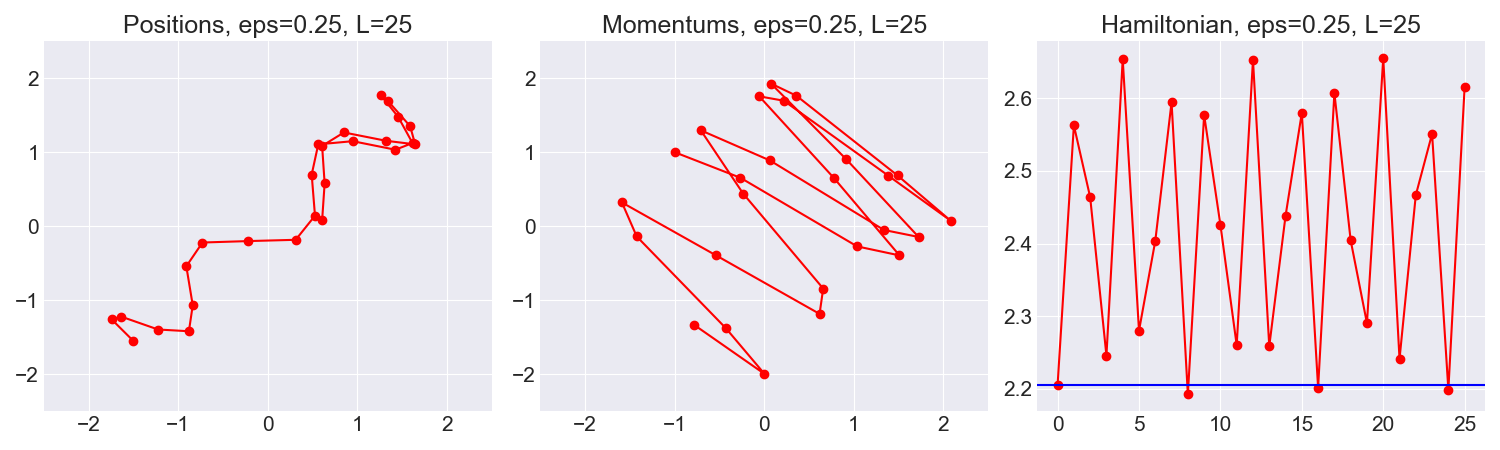
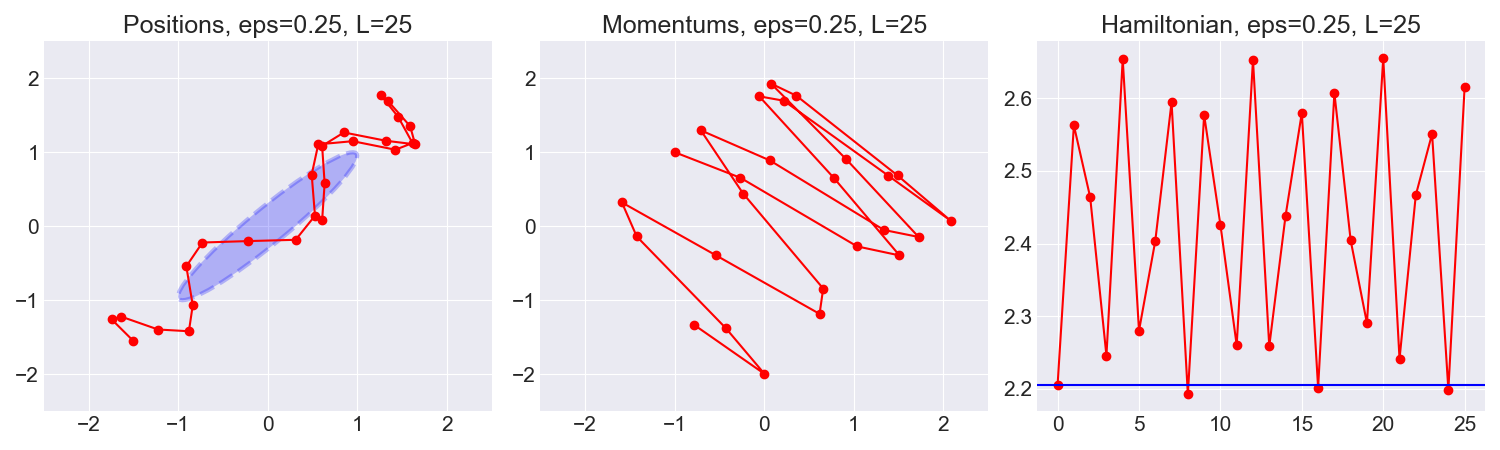
improved figures with ellipses

Changed region(s): [[0.1227, 0.3422, 0.2453, 0.6844]]

diff --git a/hmc/bivariate_gaussian_one_leapfrog.py b/hmc/bivariate_gaussian_one_leapfrog.py
@@ -12,6 +12,7 @@ import sys
 
 # Matplotlib
 import matplotlib.pyplot as plt
+from matplotlib.patches import Ellipse
 plt.style.use('seaborn-darkgrid')
 FIG_DIR = "draft_figures/"
 title_size = 18
@@ -88,11 +89,57 @@ def do_one_sample(cfg):
     return proc(positions), proc(momentums), proc(hamiltonians)
 
 
+def plot_cov_ellipse(cov, pos, nstd=1, ax=None, **kwargs):
+    """
+    Plots an `nstd` sigma error ellipse based on the specified covariance matrix
+    (`cov`). Additional keyword arguments are passed on to the ellipse patch
+    artist.
+
+    Parameters
+    ----------
+        cov : The 2x2 covariance matrix to base the ellipse on
+        pos : The location of the center of the ellipse.  Expects a 2-element
+                sequence of [x0, y0].
+        nstd : The radius of the ellipse in numbers of standard deviations.
+                Defaults to 2 standard deviations.
+        ax : The axis that the ellipse will be plotted on.  Defaults to the
+                current axis.
+        Additional keyword arguments are pass on to the ellipse patch.
+
+    Returns
+    -------
+    A matplotlib ellipse artist
+    """
+    def eigsorted(cov):
+        vals, vecs = np.linalg.eigh(cov)
+        order = vals.argsort()[::-1]
+        return vals[order], vecs[:,order]
+
+    if ax is None:
+        ax = plt.gca()
+
+    vals, vecs = eigsorted(cov)
+    theta = np.degrees(np.arctan2(*vecs[:,0][::-1]))
+
+    # Width and height are "full" widths, not radius
+    width, height = 2 * nstd * np.sqrt(vals)
+    ellip = Ellipse(xy=pos, width=width, height=height, angle=theta, **kwargs)
+    ax.add_artist(ellip) 
+    return ellip
+
+
 def plot(positions, momentums, hamiltonians, cfg):
     """  Creates plots to match Neal's figure. """
     L = cfg['L']
     eps = cfg['eps']
     fig, axarr = plt.subplots(1,3, figsize=(15,4.5))
+
+    # Plot an ellipse of one standard deviation..
+    cov = np.array([[cfg['stdev'], cfg['covariance']],
+                    [cfg['covariance'], cfg['stdev']]]
+    )
+    plot_cov_ellipse(cov=cov, pos=[0,0], nstd=1, ax=axarr[0], alpha=0.25,
+            color='blue', ls='dashed', lw=3)
 
     axarr[0].plot(positions[:,0], positions[:,1], '-ro')
     axarr[0].set_title("Positions, eps={}, L={}".format(eps, L), 
@@ -120,6 +167,8 @@ def plot(positions, momentums, hamiltonians, cfg):
 
 def plot_groups(stats, eps_values):
     """  Creates plots to match Neal's figure. """
+    cov = np.array([[cfg['stdev'], cfg['covariance']],
+                    [cfg['covariance'], cfg['stdev']]])
     nrows = len(eps_values)
     ncols = 3
     fig, axarr = plt.subplots(nrows, ncols, figsize=(15,5*nrows))
@@ -129,6 +178,10 @@ def plot_groups(stats, eps_values):
         momentums = stats['all_mom'][i]
         hamiltonians = stats['all_ham'][i]
         eps = eps_values[i]
+
+        # Plot an ellipse of one standard deviation..
+        plot_cov_ellipse(cov=cov, pos=[0,0], nstd=1, ax=axarr[i,0], alpha=0.25,
+                color='blue', ls='dashed', lw=3)
 
         axarr[i,0].plot(positions[:,0], positions[:,1], '-ro')
         axarr[i,1].plot(momentums[:,0], momentums[:,1], '-ro')

diff --git a/hmc/bivariate_gaussian_multiple_leapfrogs.py b/hmc/bivariate_gaussian_multiple_leapfrogs.py
@@ -1,16 +1,22 @@
 """
 Simple Hamiltonian. Based on Section 5.3.3.2 in Radford Neal's article, 2010.
 This time, we actually sample multiple times (each single sample needs its own
-sequence of leapfrog steps). NOTE: at some point, I should switch away from
-using hstack, because that's very inefficient for numpy.
+sequence of leapfrog steps).
 """
-
+from collections import defaultdict
 import numpy as np
-np.set_printoptions(suppress=True)
+np.set_printoptions(suppress=True, linewidth=80)
+import sys
+
+# Matplotlib
 import matplotlib.pyplot as plt
 plt.style.use('seaborn-darkgrid')
-import sys
 FIG_DIR = "draft_figures/"
+title_size = 18
+xsize = 15
+ysize = 15
+legend_size = 15
+tick_size = 15
 
 
 def f_H(q, p, cov):

diff --git a/hmc/README.md b/hmc/README.md
@@ -6,10 +6,10 @@ extensions as I investigate tuning the parameters.
 
 Contents:
 
-- [Discretizing Hamiltonian Dynamics](##discretizing-hamiltonian-dynamics)
+- [Discretizing Hamiltonian Dynamics](#discretizing-hamiltonian-dynamics)
 - [Bivariate Gaussians Example](#bivariate-gaussians)
     - [One Iteration of HMC](#figure-53-one-leapfrog-trajectory)
-    - [Many Iterations ofHMC](#figure-53-one-leapfrog-trajectory)
+    - [Many Iterations of HMC](#figure-54-running-hmc)
 
 ## Discretizing Hamiltonian Dynamics
 
